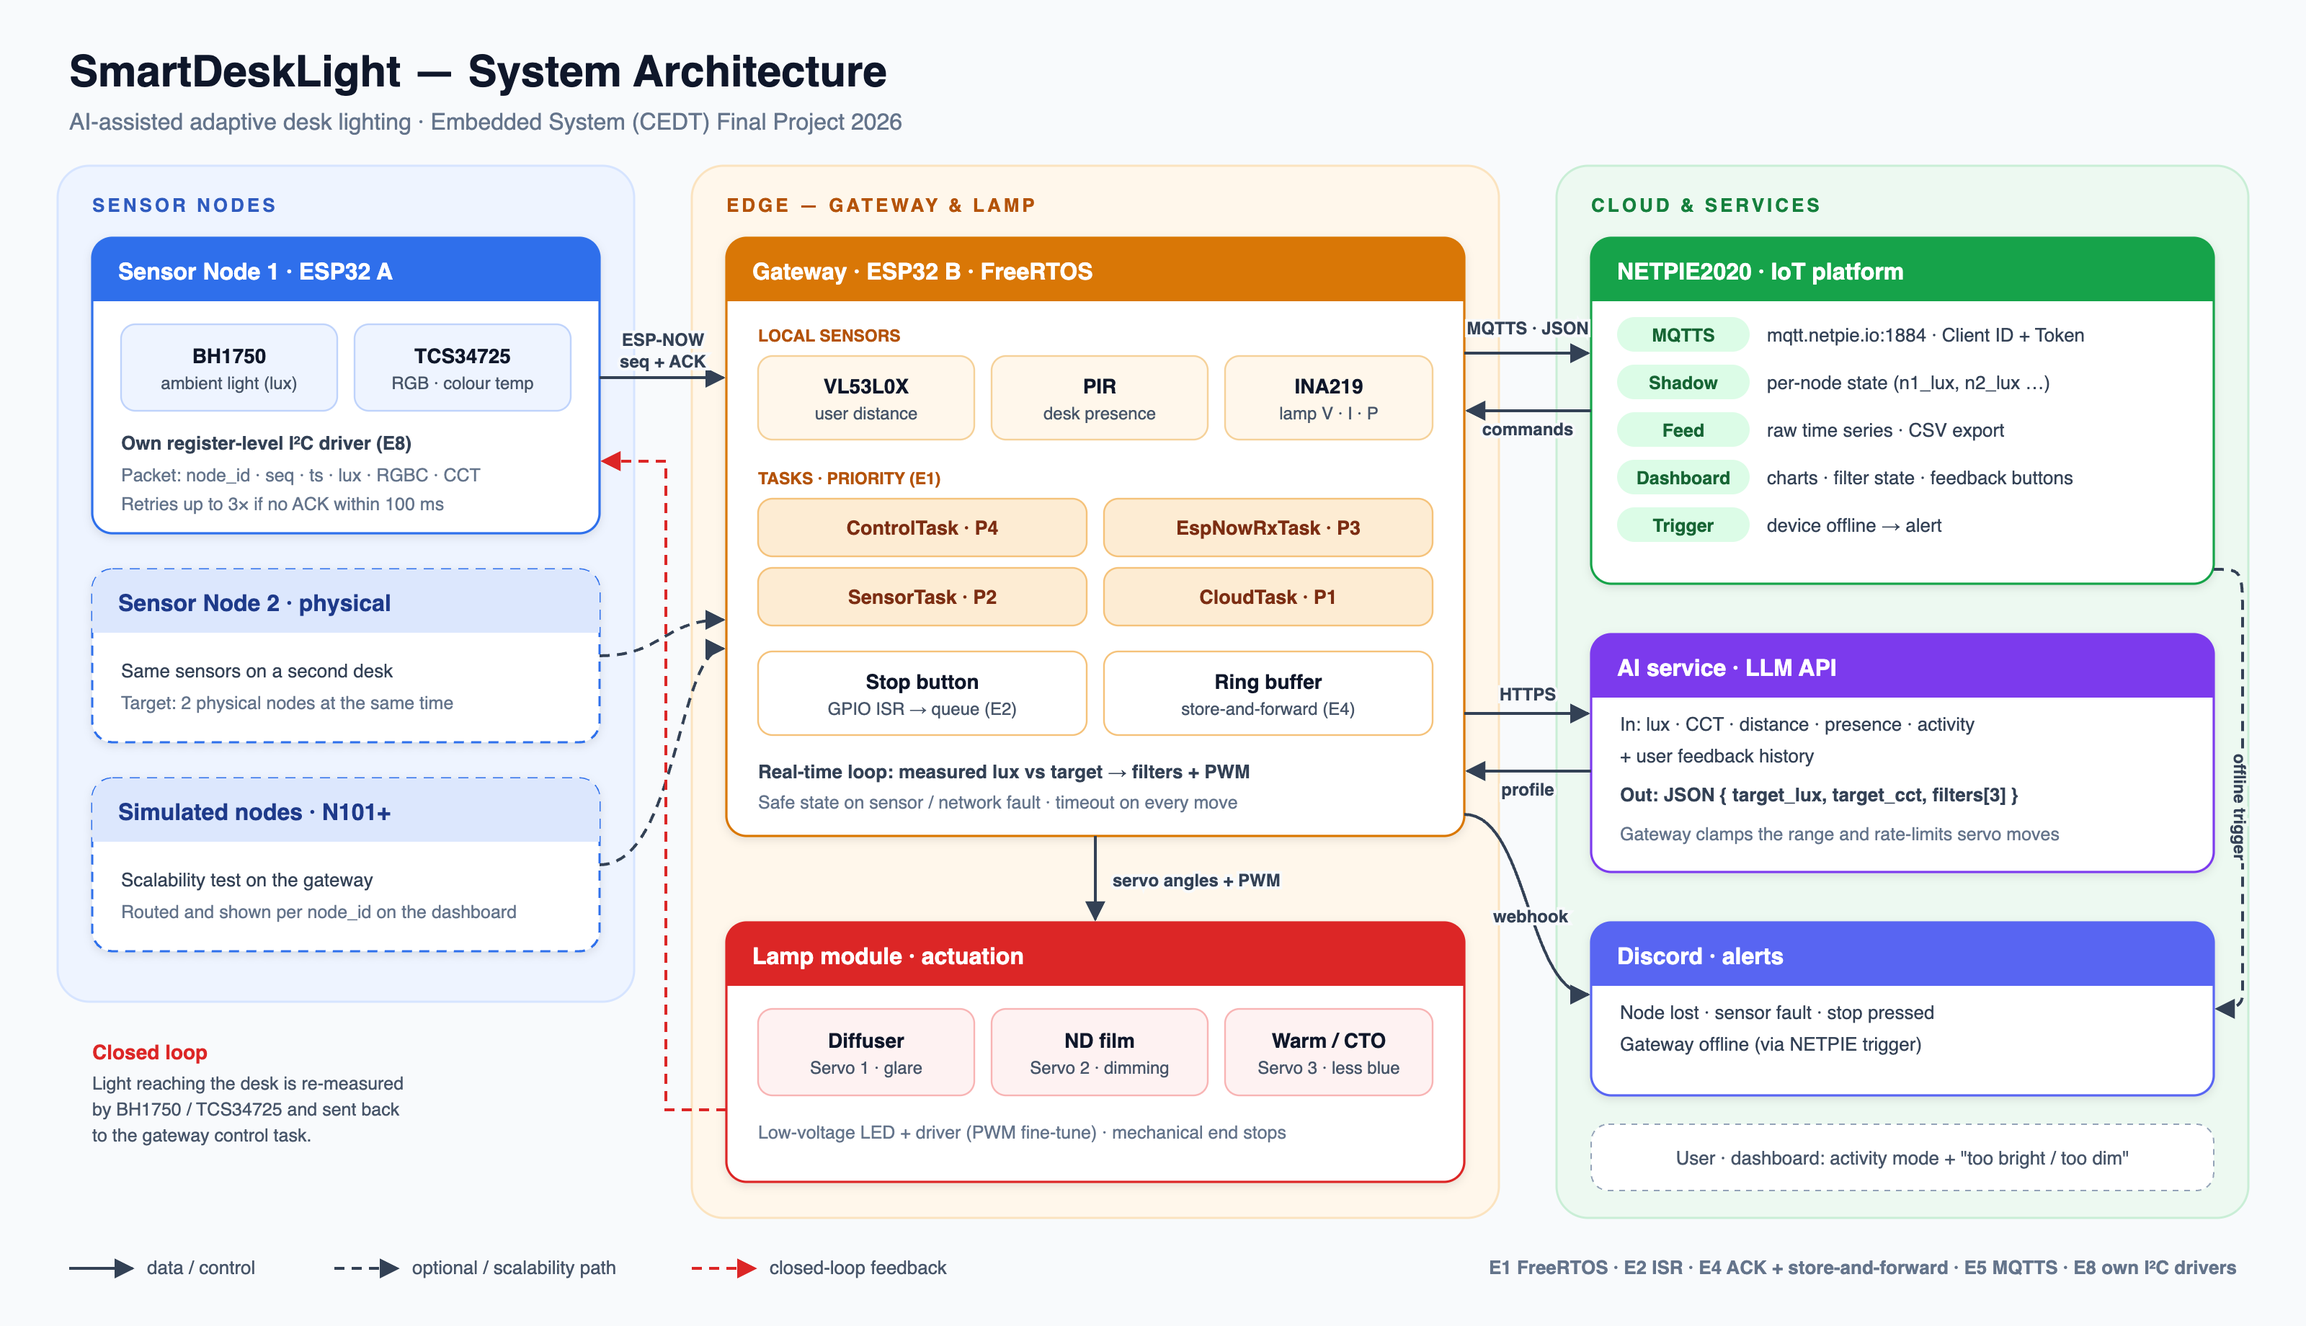
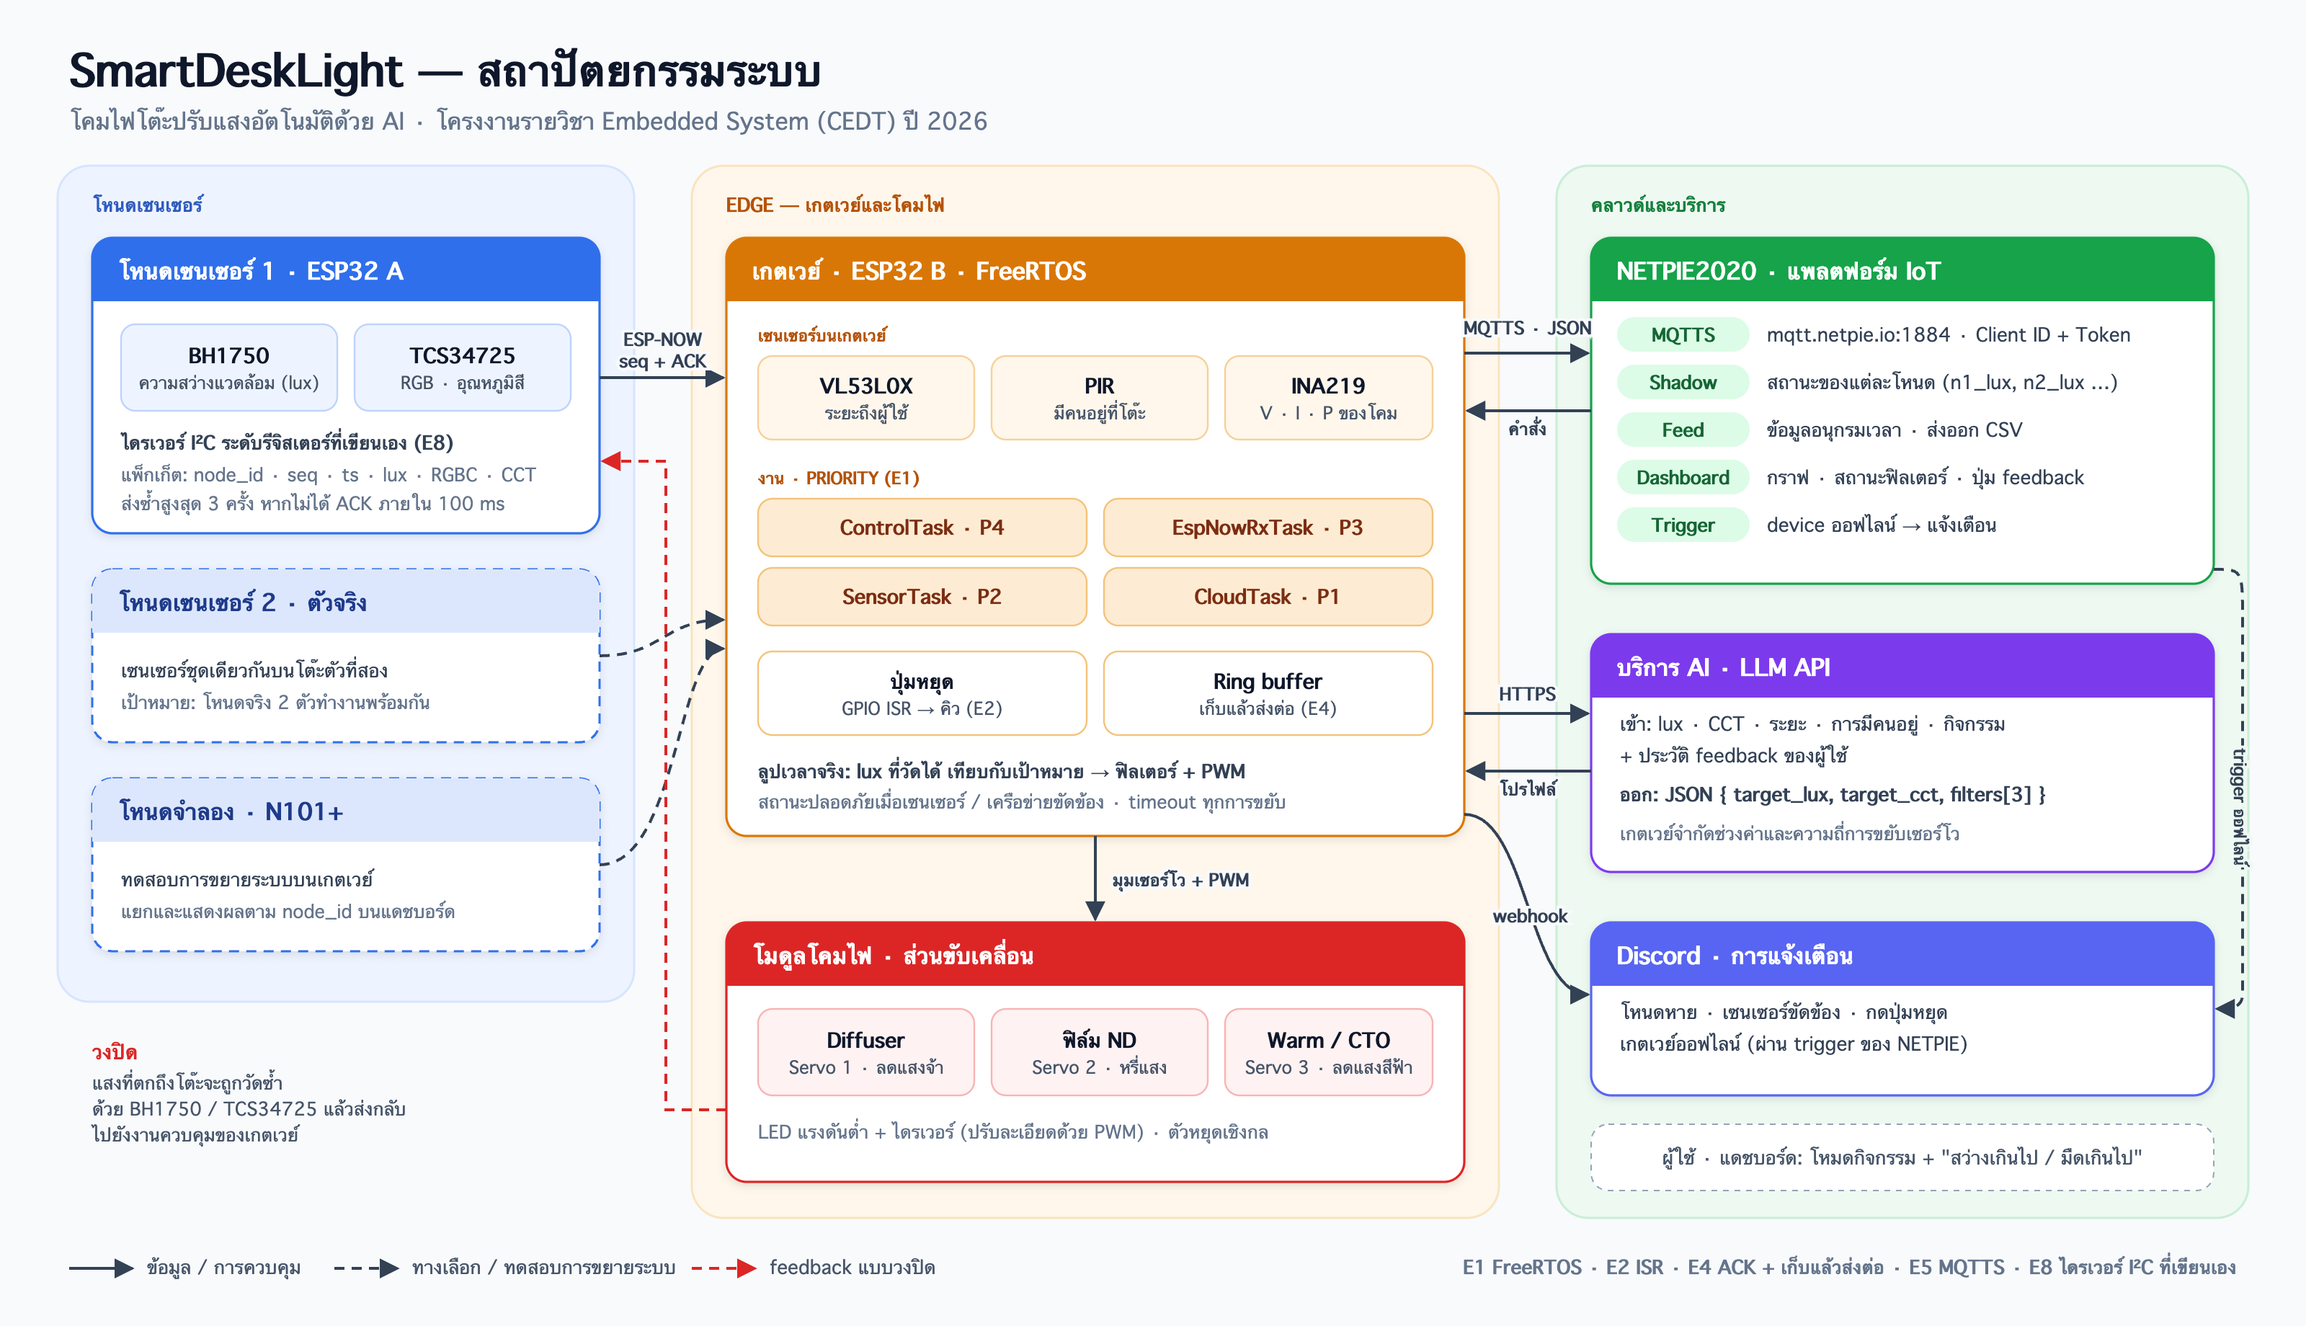
docs: translate docs and architecture diagram to Thai

diff --git a/docs/hardware.md b/docs/hardware.md
@@ -1,42 +1,42 @@
-# Hardware
+# ฮาร์ดแวร์
 
-## Bill of materials
+## รายการอุปกรณ์
 
-| Item | Qty | Location | Purpose | Est. cost (THB) |
+| อุปกรณ์ | จำนวน | ติดตั้งที่ | หน้าที่ | ราคาประมาณ (บาท) |
 |---|:-:|---|---|--:|
-| ESP32 DevKit | 2 (+1) | Node / Gateway | MCUs (+1 for a second physical node) | 380 (+190) |
-| BH1750 | 1 | Node | Desk illuminance (lux) — closed-loop feedback | 74–120 |
-| TCS34725 | 1 | Node | RGB + clear → colour temperature | 85–180 |
-| VL53L0X | 1 | Gateway | Distance lamp → user / desk | 165–320 |
-| PIR (HC-SR501) | 1 | Gateway | Presence at the desk | 40–100 |
-| INA219 | 1 | Gateway | Lamp voltage / current / power | 45–120 |
-| Servo SG90 / MG90S | 3 | Gateway | Flip each filter in or out of the light path | 300–540 |
-| LED module + constant-current driver | 1 | Gateway | Light source with PWM dimming | 230–550 |
-| Supply, filter films, frame, hinges, PCB, wiring, fuse, button, spares | — | — | Build | 1,000–2,400 |
-| **Total** | | | **5 sensor types · 1 actuator type** | **≈ 2,320–4,710** |
+| ESP32 DevKit | 2 (+1) | โหนด / เกตเวย์ | ไมโครคอนโทรลเลอร์ (+1 สำหรับโหนดจริงตัวที่สอง) | 380 (+190) |
+| BH1750 | 1 | โหนด | วัดความสว่างบนโต๊ะ (lux) — ใช้เป็น feedback ของวงปิด | 74–120 |
+| TCS34725 | 1 | โหนด | RGB + clear → อุณหภูมิสี | 85–180 |
+| VL53L0X | 1 | เกตเวย์ | ระยะจากโคมถึงผู้ใช้ / โต๊ะ | 165–320 |
+| PIR (HC-SR501) | 1 | เกตเวย์ | ตรวจว่ามีคนอยู่ที่โต๊ะ | 40–100 |
+| INA219 | 1 | เกตเวย์ | แรงดัน / กระแส / กำลังไฟของโคม | 45–120 |
+| Servo SG90 / MG90S | 3 | เกตเวย์ | พับฟิลเตอร์แต่ละแผ่นเข้า-ออกจากทางแสง | 300–540 |
+| โมดูล LED + ไดรเวอร์กระแสคงที่ | 1 | เกตเวย์ | แหล่งกำเนิดแสง หรี่ด้วย PWM | 230–550 |
+| แหล่งจ่ายไฟ, ฟิล์มฟิลเตอร์, โครง, บานพับ, PCB, สายไฟ, ฟิวส์, ปุ่ม, อะไหล่สำรอง | — | — | งานประกอบ | 1,000–2,400 |
+| **รวม** | | | **เซนเซอร์ 5 ชนิด · แอคชูเอเตอร์ 1 ชนิด** | **≈ 2,320–4,710** |
 
-## Pin map (ESP32 DevKit)
+## ผังขา (ESP32 DevKit)
 
-| Board | Signal | GPIO | Notes |
+| บอร์ด | สัญญาณ | GPIO | หมายเหตุ |
 |---|---|:-:|---|
-| Node | I²C SDA / SCL | 21 / 22 | BH1750 `0x23`, TCS34725 `0x29` |
-| Gateway | I²C SDA / SCL | 21 / 22 | VL53L0X `0x29`, INA219 `0x40` |
-| Gateway | PIR output | 34 | Input-only pin |
-| Gateway | Stop / override button | 4 | `INPUT_PULLUP`, active low, falling-edge ISR |
-| Gateway | Servo 1 / 2 / 3 | 25 / 26 / 27 | Diffuser / ND / Warm-CTO, LEDC 50 Hz |
-| Gateway | LED driver PWM | 18 | LEDC ≈ 5 kHz |
-| Gateway | Status LED | 2 | On-board |
+| โหนด | I²C SDA / SCL | 21 / 22 | BH1750 `0x23`, TCS34725 `0x29` |
+| เกตเวย์ | I²C SDA / SCL | 21 / 22 | VL53L0X `0x29`, INA219 `0x40` |
+| เกตเวย์ | เอาต์พุต PIR | 34 | ขาอินพุตอย่างเดียว |
+| เกตเวย์ | ปุ่มหยุด / override | 4 | `INPUT_PULLUP`, active low, ISR ขอบขาลง |
+| เกตเวย์ | Servo 1 / 2 / 3 | 25 / 26 / 27 | Diffuser / ND / Warm-CTO, LEDC 50 Hz |
+| เกตเวย์ | PWM ของไดรเวอร์ LED | 18 | LEDC ≈ 5 kHz |
+| เกตเวย์ | LED แสดงสถานะ | 2 | LED บนบอร์ด |
 
 > [!IMPORTANT]
-> Servos run from a separate 5 V ≥ 2 A rail, the LED from its own DC supply through the driver, and INA219 sits high-side on the LED rail. **All grounds are common.**
+> เซอร์โวใช้ไฟเลี้ยง 5 V ≥ 2 A แยกต่างหาก LED ใช้แหล่งจ่าย DC ของตัวเองผ่านไดรเวอร์ และ INA219 ต่อแบบ high-side บนสายไฟของ LED **กราวด์ทั้งหมดต้องต่อร่วมกัน**
 
-## Safety
+## ความปลอดภัย
 
-- Low-voltage DC only — no mains wiring in the project
-- Mechanical end stops, software angle limits and a timeout on every servo move
-- Stop button always wins; safe state = filters folded, LED at medium
-- Filter films rated for lighting use, mounted away from hot parts
+- ใช้ไฟ DC แรงดันต่ำเท่านั้น — ไม่มีการเดินสายไฟบ้านในโครงงาน
+- มีตัวหยุดเชิงกล จำกัดมุมในซอฟต์แวร์ และกำหนด timeout ทุกครั้งที่เซอร์โวขยับ
+- ปุ่มหยุดมีสิทธิ์สูงสุดเสมอ สถานะปลอดภัย = พับฟิลเตอร์ออก, LED ระดับกลาง
+- ฟิล์มฟิลเตอร์ต้องเป็นชนิดสำหรับงานแสงสว่าง และติดตั้งห่างจากชิ้นส่วนที่ร้อน
 
 ---
 
-[← Back to README](../README.md)
+[← กลับไปที่ README](../README.md)

diff --git a/docs/protocols.md b/docs/protocols.md
@@ -1,29 +1,30 @@
-# Communication protocols
+# โปรโตคอลการสื่อสาร
 
-## Node → Gateway · ESP-NOW
+## โหนด → เกตเวย์ · ESP-NOW
 
-Packed struct defined in [`firmware/common/message.h`](../firmware/common/message.h):
+struct แบบ packed นิยามไว้ใน [`firmware/common/message.h`](../firmware/common/message.h):
 
 ```c
 { version, type, node_id, seq, ts_ms, lux, r, g, b, c, cct }
 ```
 
-The gateway answers `ACK { version, type, node_id, seq }`. Without an ACK in 100 ms the node retries up to 3 times; the gateway de-duplicates by `(node_id, seq)`.
+เกตเวย์ตอบกลับด้วย `ACK { version, type, node_id, seq }` ถ้าไม่ได้รับ ACK ภายใน 100 ms โหนดจะส่งซ้ำได้สูงสุด 3 ครั้ง และเกตเวย์ตัดแพ็กเก็ตซ้ำด้วย `(node_id, seq)`
 
-## Gateway ↔ NETPIE2020 · MQTTS (port 1884)
+## เกตเวย์ ↔ NETPIE2020 · MQTTS (พอร์ต 1884)
 
-| Topic | Direction | Payload |
+| Topic | ทิศทาง | ข้อมูล |
 |---|---|---|
-| `@msg/sdl/<node_id>/telemetry` | gateway → cloud | Raw JSON per reading |
-| `@shadow/data/update` | gateway → cloud | Per-node state for Feed and Dashboard |
-| `@msg/sdl/cmd` | dashboard → gateway | Activity mode or user feedback |
+| `@msg/sdl/<node_id>/telemetry` | เกตเวย์ → คลาวด์ | JSON ดิบทีละค่าที่วัดได้ |
+| `@shadow/data/update` | เกตเวย์ → คลาวด์ | สถานะของแต่ละโหนด สำหรับ Feed และ Dashboard (ทุก 30 วินาที) |
+| `@msg/sdl/cmd` | แดชบอร์ด → เกตเวย์ | โหมดกิจกรรม หรือ feedback จากผู้ใช้ |
+| `@msg/sdl/alert` | เกตเวย์ → คลาวด์ | ข้อความแจ้งเตือน (ส่งเข้า Discord ด้วย) |
 
 ```json
 {"node_id":"N1","seq":1024,"ts":1730300000,"lux":412.5,"cct":4300,"dist_mm":550,
  "presence":1,"lamp_mW":3120,"filters":[1,0,0],"pwm":180,"mode":"reading"}
 ```
 
-## Gateway ↔ AI · HTTPS
+## เกตเวย์ ↔ AI · HTTPS
 
 ```json
 // request
@@ -34,8 +35,8 @@ The gateway answers `ACK { version, type, node_id, seq }`. Without an ACK in 100
 {"target_lux":450,"target_cct":4000,"filters":[1,0,1],"reason":"evening reading, user found it too bright"}
 ```
 
-The gateway clamps `target_lux` to 200–750 lux, rate-limits servo moves and keeps the last good (or rule-based) profile if the request fails.
+เกตเวย์จำกัด `target_lux` ให้อยู่ในช่วง 200–750 lux, จำกัดความถี่การขยับเซอร์โว และใช้โปรไฟล์ล่าสุดที่ใช้ได้ (หรือโปรไฟล์ตามกฎ) ต่อไปหากคำขอล้มเหลว
 
 ---
 
-[← Back to README](../README.md)
+[← กลับไปที่ README](../README.md)

diff --git a/docs/firmware.md b/docs/firmware.md
@@ -1,26 +1,26 @@
-# Firmware
+# เฟิร์มแวร์
 
-## Gateway tasks (FreeRTOS)
+## งานของเกตเวย์ (FreeRTOS)
 
-| Task | Priority | Responsibility |
+| งาน | Priority | หน้าที่ |
 |---|:-:|---|
-| `ControlTask` | 4 | Safety, stop-button events, closed-loop control of filters + PWM |
-| `EspNowRxTask` | 3 | Drain received packets, de-duplicate, keep per-node state |
+| `ControlTask` | 4 | ความปลอดภัย, เหตุการณ์ปุ่มหยุด, ควบคุมฟิลเตอร์และ PWM แบบวงปิด |
+| `EspNowRxTask` | 3 | ดึงแพ็กเก็ตที่ได้รับ, ตัดแพ็กเก็ตซ้ำ, เก็บสถานะของแต่ละโหนด |
 | `SensorTask` | 2 | VL53L0X, PIR, INA219 |
-| `CloudTask` | 1 | MQTTS, store-and-forward buffer, AI requests, Discord alerts |
+| `CloudTask` | 1 | MQTTS, บัฟเฟอร์เก็บแล้วส่งต่อ, คำขอไปยัง AI, การแจ้งเตือนผ่าน Discord |
 
-ISRs and the ESP-NOW callback only enqueue work; everything else happens in tasks.
+ISR และ callback ของ ESP-NOW ทำแค่ใส่งานลงคิว งานอื่นทั้งหมดทำใน task
 
 ## Embedded Engineering Depth
 
-| Item | Implementation | Status |
+| หัวข้อ | วิธีที่ทำ | สถานะ |
 |---|---|:-:|
-| **E1** RTOS multitasking | Four tasks with reasoned priorities, queues and event groups | 🟡 scaffolded |
-| **E2** Interrupt-driven I/O | Stop button ISR → `xQueueSendFromISR` → `ControlTask` | 🟡 scaffolded |
-| **E4** Reliable communication | seq + ACK/retry node ↔ gateway, ring buffer while offline | 🟡 scaffolded |
-| **E5** Security | MQTTS with CA check + device token, HTTPS to AI/Discord, secrets git-ignored | ⚪ planned |
-| **E8** Low-level driver | Own register-level I²C drivers for BH1750, TCS34725 and INA219 | ⚪ planned |
+| **E1** RTOS multitasking | 4 task ที่กำหนด priority อย่างมีเหตุผล พร้อม queue และ event group | 🟡 วางโครงแล้ว |
+| **E2** Interrupt-driven I/O | ISR ของปุ่มหยุด → `xQueueSendFromISR` → `ControlTask` | 🟡 วางโครงแล้ว |
+| **E4** Reliable communication | seq + ACK/ส่งซ้ำ ระหว่างโหนดกับเกตเวย์, ring buffer ขณะออฟไลน์ | 🟡 วางโครงแล้ว |
+| **E5** Security | MQTTS ตรวจ CA + device token, HTTPS ไปยัง AI/Discord, ข้อมูลลับไม่อยู่ใน git | ⚪ วางแผนไว้ |
+| **E8** Low-level driver | ไดรเวอร์ I²C ระดับรีจิสเตอร์ที่เขียนเองสำหรับ BH1750, TCS34725 และ INA219 | ⚪ วางแผนไว้ |
 
 ---
 
-[← Back to README](../README.md)
+[← กลับไปที่ README](../README.md)

diff --git a/docs/testing.md b/docs/testing.md
@@ -1,18 +1,18 @@
-# Testing & evaluation
+# การทดสอบและประเมินผล
 
-Every metric is repeated at least 10 times and reported as mean / min / max. Details and results live in [`tests/README.md`](../tests/README.md).
+ทุกตัวชี้วัดทดสอบซ้ำอย่างน้อย 10 ครั้ง และรายงานเป็นค่าเฉลี่ย / ต่ำสุด / สูงสุด รายละเอียดและผลลัพธ์อยู่ใน [`tests/README.md`](../tests/README.md)
 
-| Metric | Method |
+| ตัวชี้วัด | วิธีวัด |
 |---|---|
-| Sensor accuracy | BH1750 vs. reference lux meter at 5 light levels |
-| End-to-end latency | sensor → actuator and sensor → dashboard, from timestamps |
-| Packet delivery rate | node `seq` vs. packets received at the gateway |
-| Power | INA219 readings per lighting mode |
-| AI accuracy | share of recommendations accepted without change |
-| Uptime | continuous run ≥ 24 h |
+| ความแม่นยำของเซนเซอร์ | เทียบ BH1750 กับเครื่องวัดแสงอ้างอิงที่ 5 ระดับแสง |
+| ความหน่วงตลอดเส้นทาง | เซนเซอร์ → แอคชูเอเตอร์ และเซนเซอร์ → แดชบอร์ด คำนวณจาก timestamp |
+| อัตราการส่งแพ็กเก็ตสำเร็จ | `seq` ของโหนด เทียบกับจำนวนแพ็กเก็ตที่เกตเวย์ได้รับ |
+| กำลังไฟ | ค่าจาก INA219 ในแต่ละโหมดแสง |
+| ความแม่นยำของ AI | สัดส่วนคำแนะนำที่ผู้ใช้ยอมรับโดยไม่ต้องแก้ |
+| Uptime | ทำงานต่อเนื่อง ≥ 24 ชั่วโมง |
 
-Failure tests cover Wi-Fi loss, an unplugged sensor, power loss with automatic recovery, and a lost node triggering an alert.
+การทดสอบกรณีขัดข้องครอบคลุม Wi-Fi หลุด, ถอดเซนเซอร์ออก, ไฟดับแล้วกู้คืนเองอัตโนมัติ และโหนดหายแล้วมีการแจ้งเตือน
 
 ---
 
-[← Back to README](../README.md)
+[← กลับไปที่ README](../README.md)
